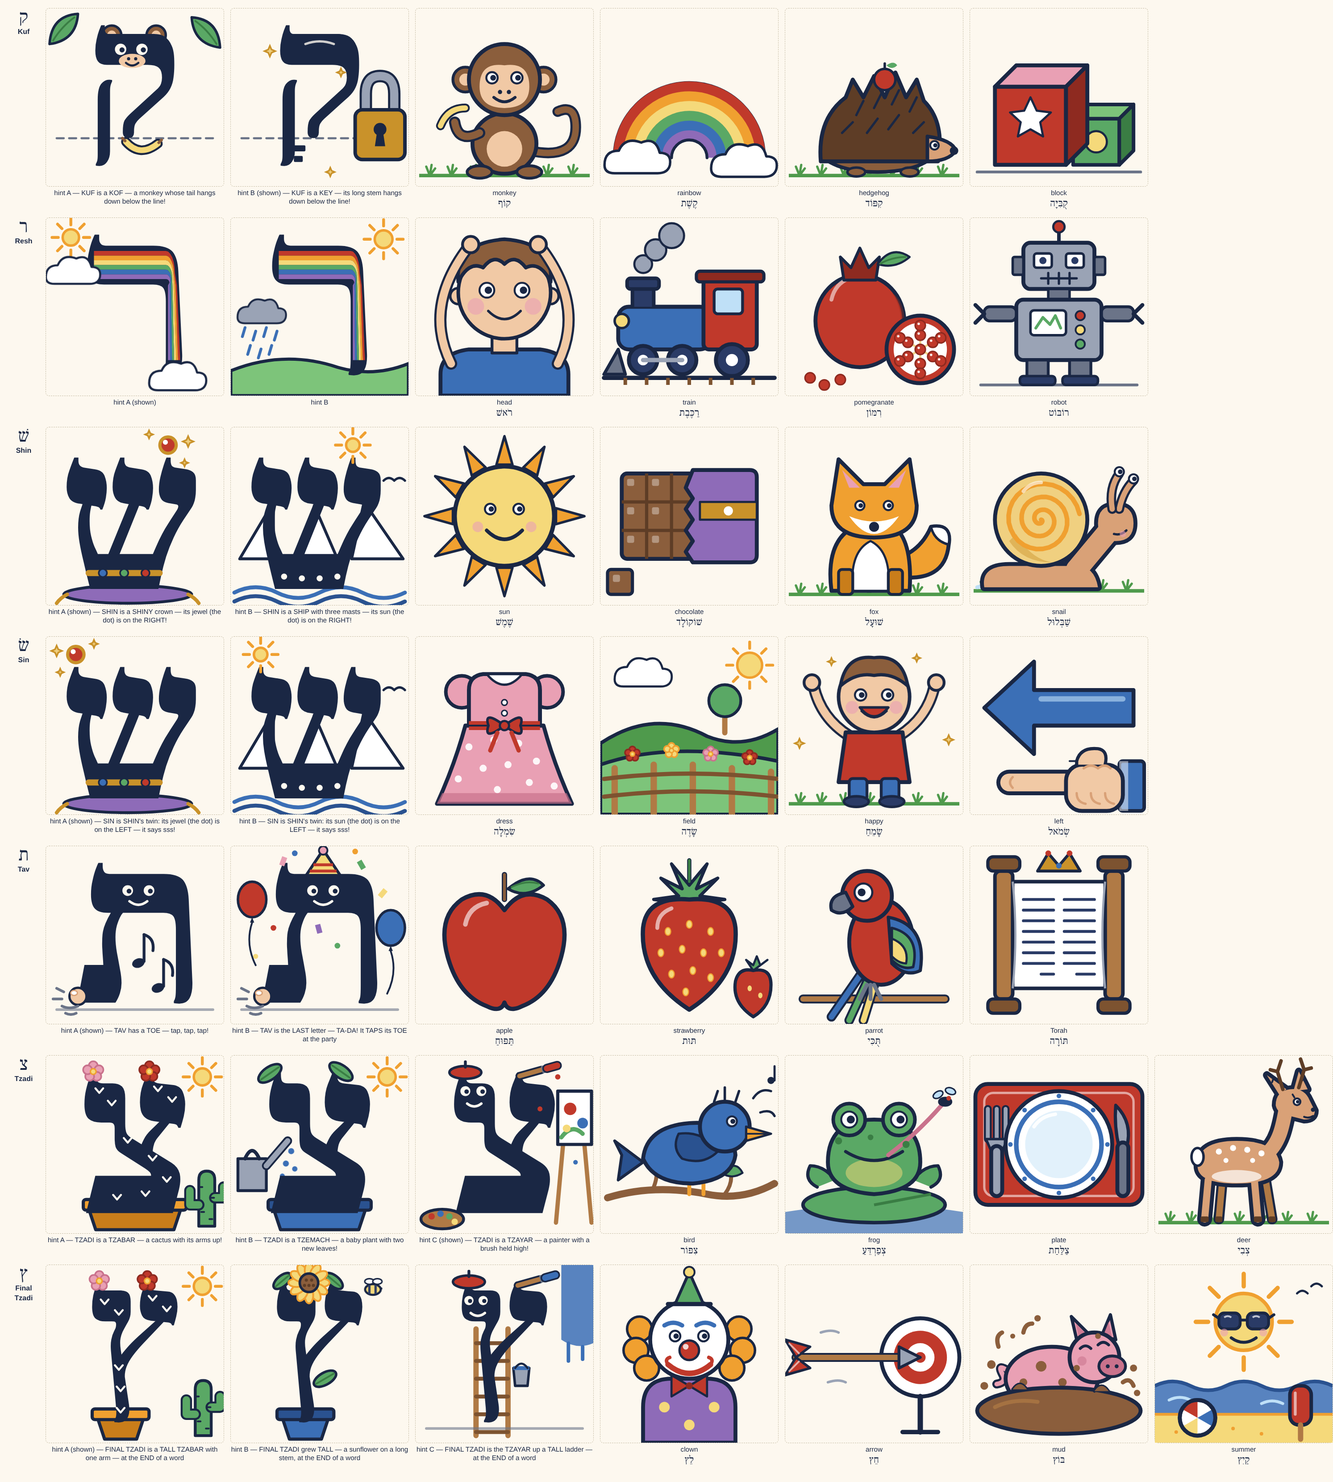
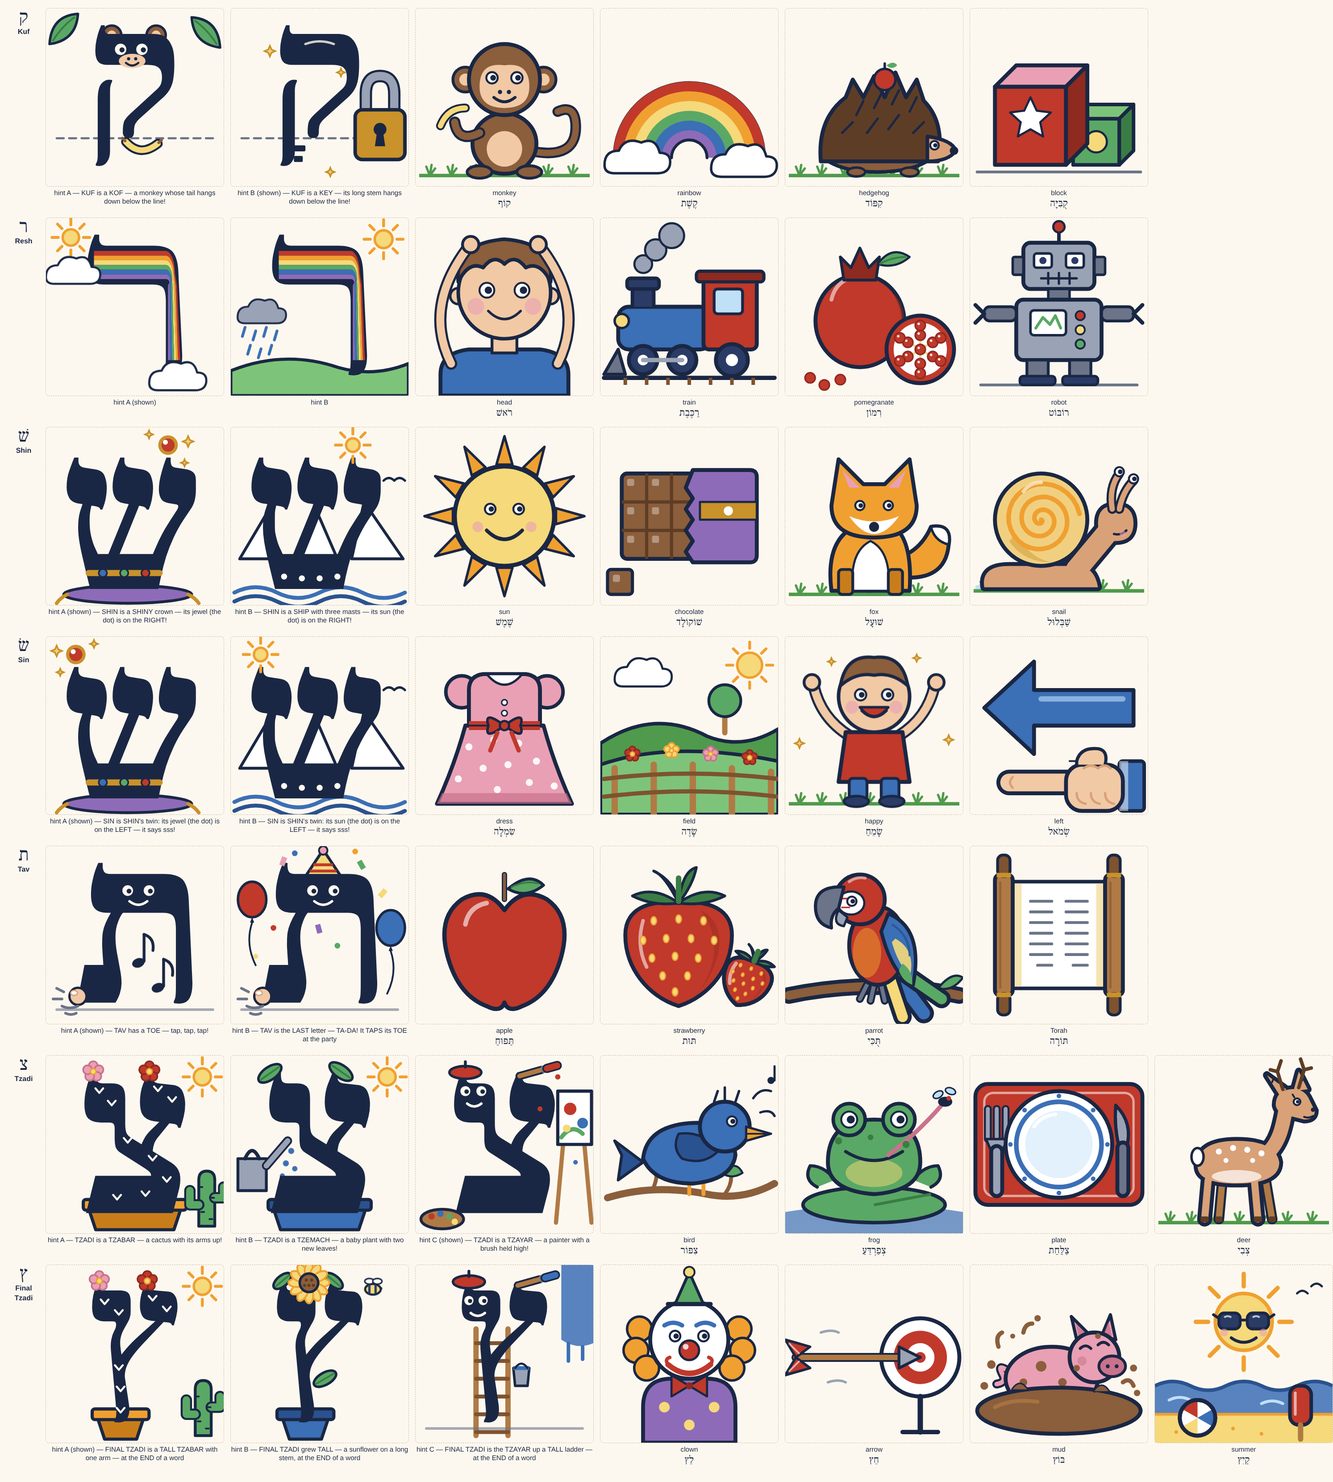
Letter Learner: strawberry, parrot and Torah redrawn on tav
The maintainer's fourth round of circled pictures. Each is redrawn in the set's hand (tokens only, 2.2
outlines, flat fills with a darker shade) and checked at 320, 120 and 76 px in both themes:

- strawberry: a plump berry with staggered seeds and a leafy top, a smaller one tucked behind it.
- parrot: a scarlet macaw on a branch — a big hooked beak, a white face patch, a blue wing with a yellow
  band, long blue, yellow and green tail feathers.
- Torah: a scroll open between two wooden rollers with handles and gold bands, two columns of writing —
  the suite's Simchat Torah icon drawn large.

The batch 6 review sheets are re-rendered from the page. Only the three svg fields change.

Claude-Session: https://claude.ai/code/session_017D8qGgUBjUQ69kXgi753YZ

Changed region(s): [[0.4672, 0.5586, 0.8409, 0.7138]]

diff --git a/letter_learner.html b/letter_learner.html
@@ -1001,9 +1001,9 @@ const LETTER_DATA = [
       { label: 'B', svg: `<path d="M6 92H94" fill="none" stroke="var(--ll-gray-dk)" stroke-width="1.4" stroke-linecap="round" opacity="0.6"/><ellipse cx="12" cy="30" rx="8" ry="10" fill="var(--ll-red)" stroke="var(--ll-line)" stroke-width="1.4" stroke-linecap="round" stroke-linejoin="round"/><path d="M12 40l-1.2 3h2.4z" fill="var(--ll-line)"/><path d="M12 43q-4 12 2 24" fill="none" stroke="var(--ll-line)" stroke-width="1" stroke-linecap="round" stroke-linejoin="round"/><ellipse cx="90" cy="46" rx="8" ry="10" fill="var(--ll-blue)" stroke="var(--ll-line)" stroke-width="1.4" stroke-linecap="round" stroke-linejoin="round"/><path d="M90 56l-1.2 3h2.4z" fill="var(--ll-line)"/><path d="M90 59q4 12 -2 24" fill="none" stroke="var(--ll-line)" stroke-width="1" stroke-linecap="round" stroke-linejoin="round"/><path d="M42 17L52 2L62 17Z" fill="var(--ll-yellow)" stroke="var(--ll-line)" stroke-width="1.6" stroke-linecap="round" stroke-linejoin="round"/><path d="M46.5 10.5L57.5 10.5M44.5 14L59.5 14" fill="none" stroke="var(--ll-red)" stroke-width="1.6"/><circle cx="52" cy="2.4" r="2.4" fill="var(--ll-pink)" stroke="var(--ll-line)" stroke-width="1" stroke-linecap="round" stroke-linejoin="round"/><g transform="translate(5 4) scale(0.9)"><path d="M77.8 94Q76.9 94 76 93.9Q75.1 93.9 74.4 93.7V92.5Q75.1 91.5 75.4 89.8Q75.7 88 75.7 82.4V47.9Q75.7 41.6 74.1 39.4Q72.5 37.2 67.8 37.2H33.1Q27.5 37.2 25.1 34.7Q22.6 32.2 22.6 25.7Q22.6 21 23.6 16.9Q24.5 12.7 25.6 9.8Q26.7 6.9 27.2 6H29.9V8Q29.9 10.4 30.9 11.7Q31.8 12.9 34.1 12.9H68Q77 12.9 80.2 16.8Q83.3 20.7 83.7 28.8L86 80.4Q86.2 87 84.3 90.5Q82.4 94 77.8 94ZM14 93.4 18.5 69.8H30.3Q30.2 67.4 30 65Q29.8 62.5 29.7 60.1Q29.5 57.7 29.6 55.3Q29.6 52.9 29.8 50.8Q30.2 47.1 31.7 43.7Q33.2 40.2 34.9 37.4V34.7H42.6V37.2Q42.1 37.6 40.9 39.7Q39.8 41.8 38.8 45.1Q37.9 48.3 37.9 52.4Q37.9 56.9 38.8 62.1Q39.8 67.3 40.7 72.3Q41.7 77.3 41.7 81.1Q41.7 84.3 40.7 87.5Q39.7 90.7 37.9 93.4Z" fill="var(--ll-line)"/></g><circle cx="46" cy="25" r="3" fill="var(--ll-paper)"/><circle cx="58" cy="25" r="3" fill="var(--ll-paper)"/><circle cx="46.75" cy="25.3" r="1.35" fill="var(--ll-line)"/><circle cx="58.75" cy="25.3" r="1.35" fill="var(--ll-line)"/><path d="M47 31Q52 35 57 31" fill="none" stroke="var(--ll-paper)" stroke-width="1.4" stroke-linecap="round"/><circle cx="18" cy="84.5" r="4.8" fill="var(--ll-skin)" stroke="var(--ll-line)" stroke-width="1.3" stroke-linecap="round" stroke-linejoin="round"/><ellipse cx="15.8" cy="82.6" rx="1.9" ry="1.4" fill="var(--ll-white)" stroke="var(--ll-skin-dk)" stroke-width="0.7"/><path d="M9 90q4 2 9 0M11 94q3 1.5 6 0" fill="none" stroke="var(--ll-gray-dk)" stroke-width="1.5" stroke-linecap="round"/><path d="M10 82l-4 -2M9 86h-5" fill="none" stroke="var(--ll-gray-dk)" stroke-width="1.5" stroke-linecap="round"/><rect x="28" y="6" width="3" height="5" transform="rotate(20 29.5 8.5)" fill="var(--ll-pink)"/><rect x="72" y="8" width="3" height="5" transform="rotate(-30 73.5 10.5)" fill="var(--ll-green)"/><circle cx="36" cy="4" r="1.6" fill="var(--ll-blue)"/><circle cx="70" cy="3" r="1.6" fill="var(--ll-orange)"/><rect x="84" y="24" width="3" height="5" transform="rotate(40 85.5 26.5)" fill="var(--ll-yellow)"/><circle cx="24" cy="46" r="1.6" fill="var(--ll-red)"/><rect x="48" y="44" width="3" height="5" transform="rotate(-15 49.5 46.5)" fill="var(--ll-purple)"/><circle cx="60" cy="56" r="1.6" fill="var(--ll-green)"/><circle cx="14" cy="62" r="1.4" fill="var(--ll-yellow)"/>`, caption: 'TAV is the LAST letter — TA-DA! It TAPS its TOE at the party' } ] },
     words: [
       { he: 'תַּפּוּחַ', tr: 'tapuach', en: 'apple', svg: `<path d="M50 30V16" fill="none" stroke="var(--ll-line)" stroke-width="3" stroke-linecap="round" stroke-linejoin="round"/><path d="M50 30V16" fill="none" stroke="var(--ll-brown)" stroke-width="1.6" stroke-linecap="round"/><path d="M52 24q12 -10 20 -2q-10 8 -20 2z" fill="var(--ll-green)" stroke="var(--ll-line)" stroke-width="1.6" stroke-linecap="round" stroke-linejoin="round"/><path d="M54 23q8 -4 15 -2" fill="none" stroke="var(--ll-green-dk)" stroke-width="1" stroke-linecap="round"/><path d="M50 36Q40 22 26 30Q12 40 18 62Q24 84 40 90Q48 94 50 88Q52 94 60 90Q76 84 82 62Q88 40 74 30Q60 22 50 36Z" fill="var(--ll-red)" stroke="var(--ll-line)" stroke-width="2.4" stroke-linecap="round" stroke-linejoin="round"/><path d="M28 44q2 -10 12 -12" fill="none" stroke="var(--ll-white)" stroke-width="2.6" opacity="0.6" stroke-linecap="round"/>` },
-      { he: 'תּוּת', tr: 'tut', en: 'strawberry', svg: `<path d="M50 22L40 10L46 24L34 18L44 28L30 30L46 32L50 40L54 32L70 30L56 28L66 18L54 24L60 10Z" fill="var(--ll-green)" stroke="var(--ll-line)" stroke-width="1.8" stroke-linecap="round" stroke-linejoin="round"/><path d="M50 20V8" fill="none" stroke="var(--ll-line)" stroke-width="2.4" stroke-linecap="round" stroke-linejoin="round"/><path d="M50 20V8" fill="none" stroke="var(--ll-green-dk)" stroke-width="1.4" stroke-linecap="round"/><path d="M50 92Q22 74 24 46Q26 28 50 30Q74 28 76 46Q78 74 50 92Z" fill="var(--ll-red)" stroke="var(--ll-line)" stroke-width="2.4" stroke-linecap="round" stroke-linejoin="round"/><ellipse cx="38" cy="48" rx="1.6" ry="2.2" fill="var(--ll-yellow)" stroke="var(--ll-orange)" stroke-width="0.6"/><ellipse cx="50" cy="44" rx="1.6" ry="2.2" fill="var(--ll-yellow)" stroke="var(--ll-orange)" stroke-width="0.6"/><ellipse cx="62" cy="48" rx="1.6" ry="2.2" fill="var(--ll-yellow)" stroke="var(--ll-orange)" stroke-width="0.6"/><ellipse cx="34" cy="60" rx="1.6" ry="2.2" fill="var(--ll-yellow)" stroke="var(--ll-orange)" stroke-width="0.6"/><ellipse cx="46" cy="58" rx="1.6" ry="2.2" fill="var(--ll-yellow)" stroke="var(--ll-orange)" stroke-width="0.6"/><ellipse cx="58" cy="60" rx="1.6" ry="2.2" fill="var(--ll-yellow)" stroke="var(--ll-orange)" stroke-width="0.6"/><ellipse cx="68" cy="60" rx="1.6" ry="2.2" fill="var(--ll-yellow)" stroke="var(--ll-orange)" stroke-width="0.6"/><ellipse cx="40" cy="72" rx="1.6" ry="2.2" fill="var(--ll-yellow)" stroke="var(--ll-orange)" stroke-width="0.6"/><ellipse cx="52" cy="70" rx="1.6" ry="2.2" fill="var(--ll-yellow)" stroke="var(--ll-orange)" stroke-width="0.6"/><ellipse cx="62" cy="74" rx="1.6" ry="2.2" fill="var(--ll-yellow)" stroke="var(--ll-orange)" stroke-width="0.6"/><ellipse cx="48" cy="82" rx="1.6" ry="2.2" fill="var(--ll-yellow)" stroke="var(--ll-orange)" stroke-width="0.6"/><path d="M32 46q0 -8 8 -11" fill="none" stroke="var(--ll-white)" stroke-width="2.2" opacity="0.6" stroke-linecap="round"/><path d="M86 70l-4 -6l4 3l2 -5l2 5l4 -3z" fill="var(--ll-green)" stroke="var(--ll-line)" stroke-width="1.2" stroke-linecap="round" stroke-linejoin="round"/><path d="M86 96Q74 88 76 76Q78 68 86 70Q96 68 96 78Q96 90 86 96Z" fill="var(--ll-red)" stroke="var(--ll-line)" stroke-width="1.8" stroke-linecap="round" stroke-linejoin="round"/><ellipse cx="84" cy="80" rx="1.2" ry="1.6" fill="var(--ll-yellow)"/><ellipse cx="90" cy="84" rx="1.2" ry="1.6" fill="var(--ll-yellow)"/>` },
-      { he: 'תֻּכִּי', tr: 'tuki', en: 'parrot', svg: `<path d="M10 86H90" fill="none" stroke="var(--ll-line)" stroke-width="5" stroke-linecap="round" stroke-linejoin="round"/><path d="M10 86H90" fill="none" stroke="var(--ll-wood)" stroke-width="3" stroke-linecap="round"/><path d="M44 70L26 96M48 72L36 98M52 72L44 98" fill="none" stroke="var(--ll-line)" stroke-width="5.4" stroke-linecap="round" stroke-linejoin="round"/><path d="M44 70L26 96" fill="none" stroke="var(--ll-blue)" stroke-width="3.2" stroke-linecap="round"/><path d="M48 72L36 98" fill="none" stroke="var(--ll-green)" stroke-width="3.2" stroke-linecap="round"/><path d="M52 72L44 98" fill="none" stroke="var(--ll-yellow)" stroke-width="3.2" stroke-linecap="round"/><ellipse cx="54" cy="54" rx="18" ry="24" fill="var(--ll-red)" stroke="var(--ll-line)" stroke-width="2.2" stroke-linecap="round" stroke-linejoin="round"/><path d="M58 40Q80 44 76 70Q68 74 60 66Z" fill="var(--ll-blue)" stroke="var(--ll-line)" stroke-width="1.8" stroke-linecap="round" stroke-linejoin="round"/><path d="M60 46Q76 50 72 68Q66 70 60 64Z" fill="var(--ll-green)" stroke="var(--ll-line)" stroke-width="1.4" stroke-linecap="round" stroke-linejoin="round"/><path d="M60 52Q70 56 68 66Q64 66 60 62Z" fill="var(--ll-yellow)" stroke="var(--ll-line)" stroke-width="1.2" stroke-linecap="round" stroke-linejoin="round"/><circle cx="46" cy="28" r="14" fill="var(--ll-red)" stroke="var(--ll-line)" stroke-width="2.2" stroke-linecap="round" stroke-linejoin="round"/><path d="M34 26Q24 28 26 36Q32 40 38 34Z" fill="var(--ll-gray-dk)" stroke="var(--ll-line)" stroke-width="1.8" stroke-linecap="round" stroke-linejoin="round"/><circle cx="44" cy="26" r="5" fill="var(--ll-white)" stroke="var(--ll-line)" stroke-width="1.2" stroke-linecap="round" stroke-linejoin="round"/><circle cx="43" cy="26" r="2.2" fill="var(--ll-line)"/><path d="M46 78l-4 8M48 78v8M50 78l4 8" fill="none" stroke="var(--ll-gray-dk)" stroke-width="2.2" stroke-linecap="round"/>` },
-      { he: 'תּוֹרָה', tr: 'torah', en: 'Torah', svg: `<path d="M38 14L44 4L50 11L56 4L62 14Z" fill="var(--ll-gold)" stroke="var(--ll-line)" stroke-width="1.6" stroke-linecap="round" stroke-linejoin="round"/><circle cx="44" cy="4" r="1.6" fill="var(--ll-red)"/><circle cx="56" cy="4" r="1.6" fill="var(--ll-red)"/><circle cx="50" cy="11" r="1.6" fill="var(--ll-blue)"/><rect x="14" y="14" width="10" height="72" rx="3" fill="var(--ll-wood)" stroke="var(--ll-line)" stroke-width="2" stroke-linecap="round" stroke-linejoin="round"/><rect x="10" y="6" width="18" height="8" rx="3" fill="var(--ll-wood-dk)" stroke="var(--ll-line)" stroke-width="1.8" stroke-linecap="round" stroke-linejoin="round"/><rect x="10" y="86" width="18" height="8" rx="3" fill="var(--ll-wood-dk)" stroke="var(--ll-line)" stroke-width="1.8" stroke-linecap="round" stroke-linejoin="round"/><rect x="76" y="14" width="10" height="72" rx="3" fill="var(--ll-wood)" stroke="var(--ll-line)" stroke-width="2" stroke-linecap="round" stroke-linejoin="round"/><rect x="72" y="6" width="18" height="8" rx="3" fill="var(--ll-wood-dk)" stroke="var(--ll-line)" stroke-width="1.8" stroke-linecap="round" stroke-linejoin="round"/><rect x="72" y="86" width="18" height="8" rx="3" fill="var(--ll-wood-dk)" stroke="var(--ll-line)" stroke-width="1.8" stroke-linecap="round" stroke-linejoin="round"/><rect x="24" y="20" width="52" height="60" fill="var(--ll-white)" stroke="var(--ll-line)" stroke-width="2" stroke-linecap="round" stroke-linejoin="round"/><path d="M24 20Q27 50 24 80M76 20Q73 50 76 80" fill="none" stroke="var(--ll-gray)" stroke-width="1.2"/><path d="M70 30H53M47 30H30" fill="none" stroke="var(--ll-navy)" stroke-width="1.6" stroke-linecap="round"/><path d="M70 36H53M47 36H30" fill="none" stroke="var(--ll-navy)" stroke-width="1.6" stroke-linecap="round"/><path d="M70 42H53M47 42H30" fill="none" stroke="var(--ll-navy)" stroke-width="1.6" stroke-linecap="round"/><path d="M70 48H53M47 48H30" fill="none" stroke="var(--ll-navy)" stroke-width="1.6" stroke-linecap="round"/><path d="M70 54H53M47 54H30" fill="none" stroke="var(--ll-navy)" stroke-width="1.6" stroke-linecap="round"/><path d="M70 60H53M47 60H30" fill="none" stroke="var(--ll-navy)" stroke-width="1.6" stroke-linecap="round"/><path d="M70 66H53M47 66H30" fill="none" stroke="var(--ll-navy)" stroke-width="1.6" stroke-linecap="round"/><path d="M70 72H60M47 72H40" fill="none" stroke="var(--ll-navy)" stroke-width="1.6" stroke-linecap="round"/>` } ] }
+      { he: 'תּוּת', tr: 'tut', en: 'strawberry', svg: `<g transform="translate(82 76) rotate(22) scale(0.45)"><path d="M0 32C-18 26 -30 10 -30 -8C-30 -22 -18 -28 0 -26C18 -28 30 -22 30 -8C30 10 18 26 0 32Z" fill="var(--ll-red)" stroke="var(--ll-line)" stroke-width="4.9" stroke-linecap="round" stroke-linejoin="round"/><path d="M12 -22C26 -16 28 4 10 26C22 10 24 -8 12 -22Z" fill="var(--ll-red-dk)" opacity="0.4"/><path d="M-20 -16Q-24 -2 -18 10" fill="none" stroke="var(--ll-white)" stroke-width="4.4" opacity="0.55" stroke-linecap="round"/><ellipse cx="-14" cy="-16" rx="1.6" ry="2.3" fill="var(--ll-yellow)" stroke="var(--ll-orange)" stroke-width="1.5"/><ellipse cx="0" cy="-17" rx="1.6" ry="2.3" fill="var(--ll-yellow)" stroke="var(--ll-orange)" stroke-width="1.5"/><ellipse cx="14" cy="-16" rx="1.6" ry="2.3" fill="var(--ll-yellow)" stroke="var(--ll-orange)" stroke-width="1.5"/><ellipse cx="-20" cy="-5" rx="1.6" ry="2.3" fill="var(--ll-yellow)" stroke="var(--ll-orange)" stroke-width="1.5"/><ellipse cx="-7" cy="-6" rx="1.6" ry="2.3" fill="var(--ll-yellow)" stroke="var(--ll-orange)" stroke-width="1.5"/><ellipse cx="7" cy="-6" rx="1.6" ry="2.3" fill="var(--ll-yellow)" stroke="var(--ll-orange)" stroke-width="1.5"/><ellipse cx="20" cy="-5" rx="1.6" ry="2.3" fill="var(--ll-yellow)" stroke="var(--ll-orange)" stroke-width="1.5"/><ellipse cx="-15" cy="5" rx="1.6" ry="2.3" fill="var(--ll-yellow)" stroke="var(--ll-orange)" stroke-width="1.5"/><ellipse cx="-2" cy="4" rx="1.6" ry="2.3" fill="var(--ll-yellow)" stroke="var(--ll-orange)" stroke-width="1.5"/><ellipse cx="11" cy="5" rx="1.6" ry="2.3" fill="var(--ll-yellow)" stroke="var(--ll-orange)" stroke-width="1.5"/><ellipse cx="-9" cy="15" rx="1.6" ry="2.3" fill="var(--ll-yellow)" stroke="var(--ll-orange)" stroke-width="1.5"/><ellipse cx="5" cy="15" rx="1.6" ry="2.3" fill="var(--ll-yellow)" stroke="var(--ll-orange)" stroke-width="1.5"/><ellipse cx="-2" cy="24" rx="1.6" ry="2.3" fill="var(--ll-yellow)" stroke="var(--ll-orange)" stroke-width="1.5"/><path d="M0 -26Q-14 -36 -26 -30Q-14 -24 0 -26ZM0 -26Q-8 -42 -14 -44Q-2 -38 0 -26ZM0 -26Q2 -44 10 -46Q8 -36 0 -26ZM0 -26Q14 -36 26 -30Q14 -24 0 -26Z" fill="var(--ll-green-dk)" stroke="var(--ll-line)" stroke-width="3.43" stroke-linecap="round" stroke-linejoin="round"/><path d="M0 -27V-40" fill="none" stroke="var(--ll-green-dk)" stroke-width="6.9" stroke-linecap="round"/></g><g transform="translate(44 58)"><path d="M0 32C-18 26 -30 10 -30 -8C-30 -22 -18 -28 0 -26C18 -28 30 -22 30 -8C30 10 18 26 0 32Z" fill="var(--ll-red)" stroke="var(--ll-line)" stroke-width="2.2" stroke-linecap="round" stroke-linejoin="round"/><path d="M12 -22C26 -16 28 4 10 26C22 10 24 -8 12 -22Z" fill="var(--ll-red-dk)" opacity="0.4"/><path d="M-20 -16Q-24 -2 -18 10" fill="none" stroke="var(--ll-white)" stroke-width="2.0" opacity="0.55" stroke-linecap="round"/><ellipse cx="-14" cy="-16" rx="1.6" ry="2.3" fill="var(--ll-yellow)" stroke="var(--ll-orange)" stroke-width="0.7"/><ellipse cx="0" cy="-17" rx="1.6" ry="2.3" fill="var(--ll-yellow)" stroke="var(--ll-orange)" stroke-width="0.7"/><ellipse cx="14" cy="-16" rx="1.6" ry="2.3" fill="var(--ll-yellow)" stroke="var(--ll-orange)" stroke-width="0.7"/><ellipse cx="-20" cy="-5" rx="1.6" ry="2.3" fill="var(--ll-yellow)" stroke="var(--ll-orange)" stroke-width="0.7"/><ellipse cx="-7" cy="-6" rx="1.6" ry="2.3" fill="var(--ll-yellow)" stroke="var(--ll-orange)" stroke-width="0.7"/><ellipse cx="7" cy="-6" rx="1.6" ry="2.3" fill="var(--ll-yellow)" stroke="var(--ll-orange)" stroke-width="0.7"/><ellipse cx="20" cy="-5" rx="1.6" ry="2.3" fill="var(--ll-yellow)" stroke="var(--ll-orange)" stroke-width="0.7"/><ellipse cx="-15" cy="5" rx="1.6" ry="2.3" fill="var(--ll-yellow)" stroke="var(--ll-orange)" stroke-width="0.7"/><ellipse cx="-2" cy="4" rx="1.6" ry="2.3" fill="var(--ll-yellow)" stroke="var(--ll-orange)" stroke-width="0.7"/><ellipse cx="11" cy="5" rx="1.6" ry="2.3" fill="var(--ll-yellow)" stroke="var(--ll-orange)" stroke-width="0.7"/><ellipse cx="-9" cy="15" rx="1.6" ry="2.3" fill="var(--ll-yellow)" stroke="var(--ll-orange)" stroke-width="0.7"/><ellipse cx="5" cy="15" rx="1.6" ry="2.3" fill="var(--ll-yellow)" stroke="var(--ll-orange)" stroke-width="0.7"/><ellipse cx="-2" cy="24" rx="1.6" ry="2.3" fill="var(--ll-yellow)" stroke="var(--ll-orange)" stroke-width="0.7"/><path d="M0 -26Q-14 -36 -26 -30Q-14 -24 0 -26ZM0 -26Q-8 -42 -14 -44Q-2 -38 0 -26ZM0 -26Q2 -44 10 -46Q8 -36 0 -26ZM0 -26Q14 -36 26 -30Q14 -24 0 -26Z" fill="var(--ll-green-dk)" stroke="var(--ll-line)" stroke-width="1.54" stroke-linecap="round" stroke-linejoin="round"/><path d="M0 -27V-40" fill="none" stroke="var(--ll-green-dk)" stroke-width="3.1" stroke-linecap="round"/></g>` },
+      { he: 'תֻּכִּי', tr: 'tuki', en: 'parrot', svg: `<path d="M2 84Q50 74 98 84" fill="none" stroke="var(--ll-line)" stroke-width="9.4" stroke-linecap="round" stroke-linejoin="round"/><path d="M2 84Q50 74 98 84" fill="none" stroke="var(--ll-brown)" stroke-width="5" stroke-linecap="round" stroke-linejoin="round"/><path d="M86 80Q94 70 100 74Q94 82 86 80Z" fill="var(--ll-green)" stroke="var(--ll-line)" stroke-width="1.2" stroke-linecap="round" stroke-linejoin="round"/><path d="M60 70L78 94" fill="none" stroke="var(--ll-line)" stroke-width="11.4" stroke-linecap="round" stroke-linejoin="round"/><path d="M60 70L78 94" fill="none" stroke="var(--ll-blue)" stroke-width="7" stroke-linecap="round" stroke-linejoin="round"/><path d="M58 72L66 96" fill="none" stroke="var(--ll-line)" stroke-width="10.4" stroke-linecap="round" stroke-linejoin="round"/><path d="M58 72L66 96" fill="none" stroke="var(--ll-yellow)" stroke-width="6" stroke-linecap="round" stroke-linejoin="round"/><path d="M62 68L88 86" fill="none" stroke="var(--ll-line)" stroke-width="10.4" stroke-linecap="round" stroke-linejoin="round"/><path d="M62 68L88 86" fill="none" stroke="var(--ll-green)" stroke-width="6" stroke-linecap="round" stroke-linejoin="round"/><path d="M46 78L42 86M50 78L48 87M54 78L56 87" fill="none" stroke="var(--ll-line)" stroke-width="4.4" stroke-linecap="round" stroke-linejoin="round"/><path d="M46 78L42 86M50 78L48 87M54 78L56 87" fill="none" stroke="var(--ll-gray-dk)" stroke-width="2.2" stroke-linecap="round"/><ellipse cx="52" cy="56" rx="16" ry="22" fill="var(--ll-red)" stroke="var(--ll-line)" stroke-width="2.2" stroke-linecap="round" stroke-linejoin="round"/><ellipse cx="46" cy="60" rx="8" ry="14" fill="var(--ll-orange)" opacity="0.5"/><path d="M58 38Q78 46 72 78Q60 72 54 48Z" fill="var(--ll-blue)" stroke="var(--ll-line)" stroke-width="2" stroke-linecap="round" stroke-linejoin="round"/><path d="M62 52Q73 58 70.5 72Q64 68 60 54Z" fill="var(--ll-yellow)" opacity="0.9"/><path d="M66 66Q72 70 71.5 78Q66 76 64 70Z" fill="var(--ll-green)"/><path d="M60 44Q70 50 70 62" fill="none" stroke="var(--ll-blue-dk)" stroke-width="1.2" opacity="0.8"/><circle cx="42" cy="30" r="14" fill="var(--ll-red)" stroke="var(--ll-line)" stroke-width="2.2" stroke-linecap="round" stroke-linejoin="round"/><ellipse cx="37" cy="32" rx="7.5" ry="6.5" fill="var(--ll-white)" stroke="var(--ll-line)" stroke-width="1.2" stroke-linecap="round" stroke-linejoin="round"/><path d="M32 29.5h6M31.5 34.5h5" fill="none" stroke="var(--ll-red)" stroke-width="0.9"/><circle cx="37.5" cy="31" r="2.6" fill="var(--ll-white)" stroke="var(--ll-line)" stroke-width="1.1" stroke-linecap="round" stroke-linejoin="round"/><circle cx="38.02" cy="31" r="1.3" fill="var(--ll-line)"/><path d="M33 23Q17 22 17 34Q17 44 26 46Q25 39 30 35Z" fill="var(--ll-gray-dk)" stroke="var(--ll-line)" stroke-width="1.8" stroke-linecap="round" stroke-linejoin="round"/><path d="M30 36Q26 44 33 45L35 40Z" fill="var(--ll-gray)" stroke="var(--ll-line)" stroke-width="1.3" stroke-linecap="round" stroke-linejoin="round"/><path d="M36 20q4 -3 9 -2" fill="none" stroke="var(--ll-white)" stroke-width="1.6" opacity="0.5" stroke-linecap="round"/>` },
+      { he: 'תּוֹרָה', tr: 'torah', en: 'Torah', svg: `<rect x="22" y="20" width="56" height="60" fill="var(--ll-white)" stroke="var(--ll-line)" stroke-width="2" stroke-linecap="round" stroke-linejoin="round"/><rect x="24" y="21" width="5" height="58" fill="var(--ll-gold-lt)" opacity="0.6"/><rect x="71" y="21" width="5" height="58" fill="var(--ll-gold-lt)" opacity="0.6"/><path d="M34 31H46M34 37H46M34 43H46M34 49H46M34 55H46M34 61H46M38 67H46M54 31H66M54 37H66M54 43H66M54 49H66M54 55H66M54 61H66M58 67H66" fill="none" stroke="var(--ll-gray-dk)" stroke-width="1.6" stroke-linecap="round"/><rect x="14" y="16" width="10" height="68" rx="3" fill="var(--ll-wood)" stroke="var(--ll-line)" stroke-width="2.2" stroke-linecap="round" stroke-linejoin="round"/><rect x="76" y="16" width="10" height="68" rx="3" fill="var(--ll-wood)" stroke="var(--ll-line)" stroke-width="2.2" stroke-linecap="round" stroke-linejoin="round"/><path d="M17 20V80M79 20V80" fill="none" stroke="var(--ll-wood-dk)" stroke-width="1.2" opacity="0.6"/><rect x="15.5" y="5" width="7" height="12" rx="3" fill="var(--ll-wood-dk)" stroke="var(--ll-line)" stroke-width="1.6" stroke-linecap="round" stroke-linejoin="round"/><rect x="15.5" y="83" width="7" height="12" rx="3" fill="var(--ll-wood-dk)" stroke="var(--ll-line)" stroke-width="1.6" stroke-linecap="round" stroke-linejoin="round"/><rect x="77.5" y="5" width="7" height="12" rx="3" fill="var(--ll-wood-dk)" stroke="var(--ll-line)" stroke-width="1.6" stroke-linecap="round" stroke-linejoin="round"/><rect x="77.5" y="83" width="7" height="12" rx="3" fill="var(--ll-wood-dk)" stroke="var(--ll-line)" stroke-width="1.6" stroke-linecap="round" stroke-linejoin="round"/><rect x="15" y="15" width="8" height="2.6" fill="var(--ll-gold)"/><rect x="77" y="15" width="8" height="2.6" fill="var(--ll-gold)"/><rect x="15" y="82.4" width="8" height="2.6" fill="var(--ll-gold)"/><rect x="77" y="82.4" width="8" height="2.6" fill="var(--ll-gold)"/>` } ] }
 ];
 </script>
 <script>
